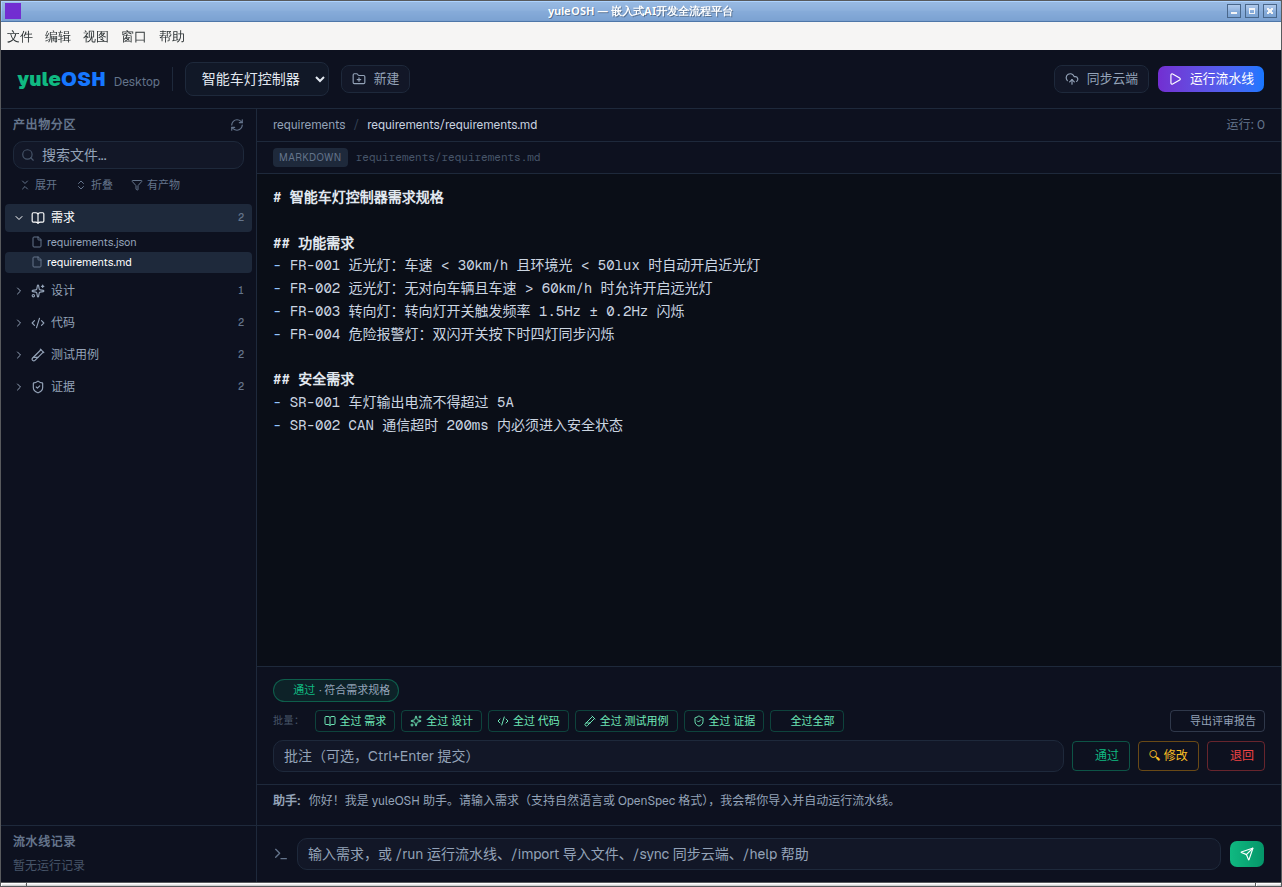
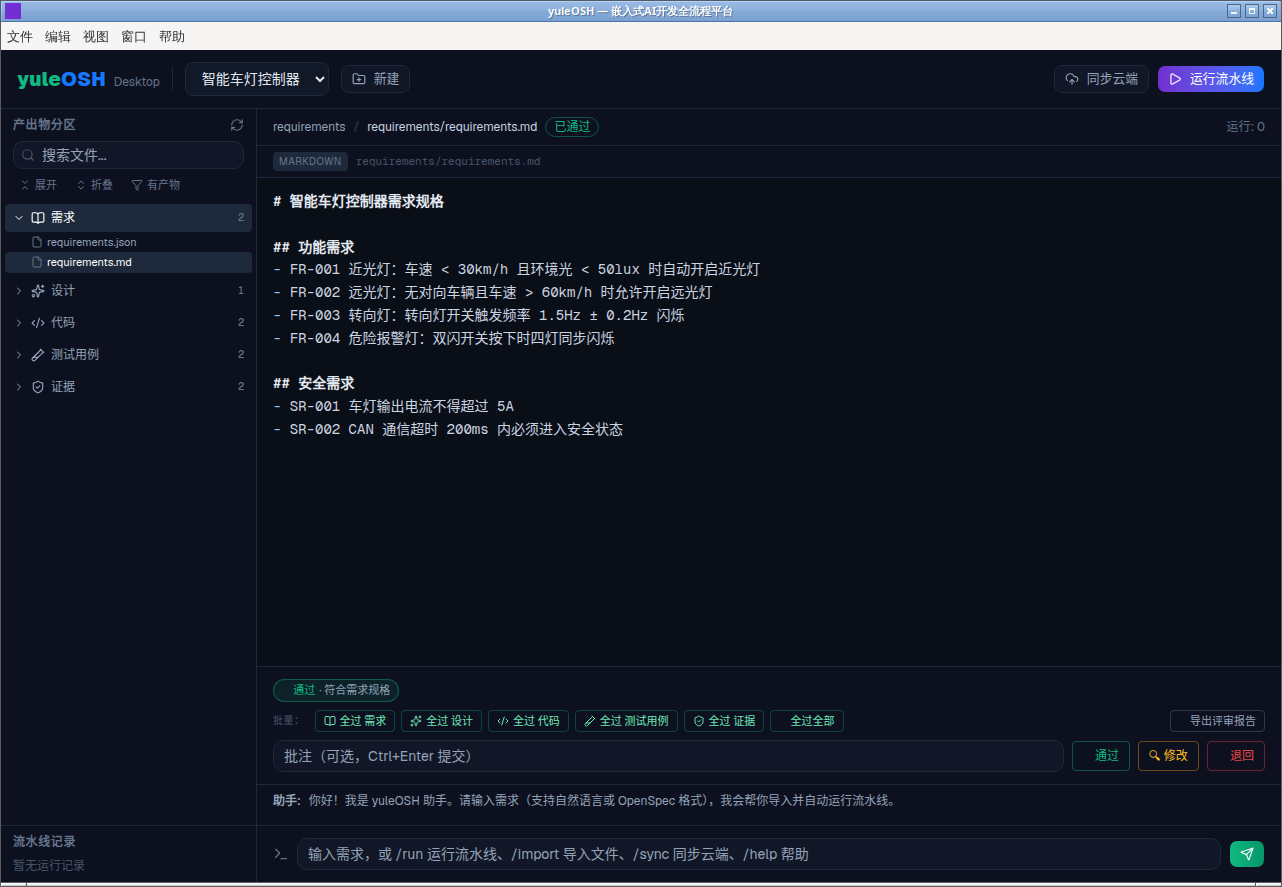
feat: update workspace

Changed region(s): [[0.2184, 0.1218, 0.5928, 0.487], [0.936, 0.1218, 0.9984, 0.1522]]

diff --git a/frontend/src/app/desktop/page.tsx b/frontend/src/app/desktop/page.tsx
@@ -729,6 +729,19 @@ export default function DesktopWorkspacePage() {
                   <span className="text-[#94a3b8]">{sectionOf(selectedFile)}</span>
                   <span className="text-[#334155]">/</span>
                   <span className="text-[#cbd5e1] truncate max-w-[360px]">{selectedFile}</span>
+                  {(() => {
+                    const rev = [...reviews].reverse().find((r) => r.artifact === selectedFile);
+                    if (!rev) return null;
+                    return (
+                      <Badge variant="outline" className={
+                        rev.status === "approved" ? "border-[#10b981]/40 text-[#10b981]"
+                          : rev.status === "rejected" ? "border-[#ef4444]/40 text-[#ef4444]"
+                          : "border-[#f59e0b]/40 text-[#fbbf24]"
+                      }>
+                        {rev.status === "approved" ? "已通过" : rev.status === "rejected" ? "已退回" : "待修改"}
+                      </Badge>
+                    );
+                  })()}
                 </>
               ) : (
                 <span className="text-[#475569]">从左侧选择文件查看</span>
@@ -773,11 +786,15 @@ export default function DesktopWorkspacePage() {
             {selectedFile && (
               <div className="border-t border-[#1e293b] bg-[#0d111f] shrink-0 px-4 py-3 space-y-2">
                 {(() => {
-                  const mine = reviews.filter((r) => r.artifact === selectedFile).slice(0, 4);
+                  const mine = reviews.filter((r) => r.artifact === selectedFile);
                   if (mine.length === 0) return null;
+                  const shown = mine.slice(-4);
                   return (
-                    <div className="flex flex-wrap gap-1.5">
-                      {mine.map((r) => (
+                    <div className="flex flex-wrap items-center gap-1.5">
+                      {mine.length > shown.length && (
+                        <span className="text-[10px] text-[#475569]">共 {mine.length} 条 ·</span>
+                      )}
+                      {shown.map((r) => (
                         <span key={r.id} className={
                           `inline-flex items-center gap-1 text-[11px] px-2 py-0.5 rounded-full border ${
                             r.status === "approved" ? "border-[#10b981]/40 text-[#10b981] bg-[#10b981]/10" :

diff --git a/frontend/src/components/code-block.tsx b/frontend/src/components/code-block.tsx
@@ -11,6 +11,8 @@ interface CodeBlockProps {
 export function CodeBlock({ content, path, placeholder }: CodeBlockProps) {
   const lang: Lang = path ? detectLang(path) : "plain";
   const isCode = lang !== "markdown" && lang !== "plain";
+  const placeholderText = placeholder || "暂无内容";
+  const lineCount = content ? content.split("\n").length : 0;
 
   return (
     <div className="flex flex-col flex-1 min-h-0">
@@ -20,11 +22,30 @@ export function CodeBlock({ content, path, placeholder }: CodeBlockProps) {
             {lang}
           </span>
           <span className="text-[11px] text-[#475569] font-mono truncate">{path}</span>
+          {isCode && lineCount > 0 && (
+            <span className="ml-auto shrink-0 text-[10px] text-[#475569]">{lineCount} 行</span>
+          )}
         </div>
       )}
-      <pre className={`flex-1 min-h-0 overflow-auto px-4 py-3 text-sm text-[#cbd5e1] font-mono leading-relaxed whitespace-pre-wrap ${isCode ? "font-mono" : ""}`}>
-        {content ? highlight(content, lang) : (placeholder || "暂无内容")}
-      </pre>
+      {isCode ? (
+        // 代码：行号 + 不自动换行（横向滚动），保持代码原始排版
+        <div className="flex-1 min-h-0 overflow-auto">
+          <div className="flex min-w-full w-max">
+            <div className="shrink-0 sticky left-0 z-10 bg-[#0a0e17] border-r border-[#1e293b] py-3 pl-3 pr-2 text-right font-mono text-sm leading-relaxed text-[#3f4b63] select-none">
+              {Array.from({ length: lineCount }, (_, i) => (
+                <div key={i}>{i + 1}</div>
+              ))}
+            </div>
+            <pre className="px-4 py-3 text-sm font-mono leading-relaxed whitespace-pre text-[#cbd5e1]">
+              {content ? highlight(content, lang) : placeholderText}
+            </pre>
+          </div>
+        </div>
+      ) : (
+        <pre className="flex-1 min-h-0 overflow-auto px-4 py-3 text-sm text-[#cbd5e1] font-mono leading-relaxed whitespace-pre-wrap">
+          {content ? highlight(content, lang) : placeholderText}
+        </pre>
+      )}
     </div>
   );
 }
